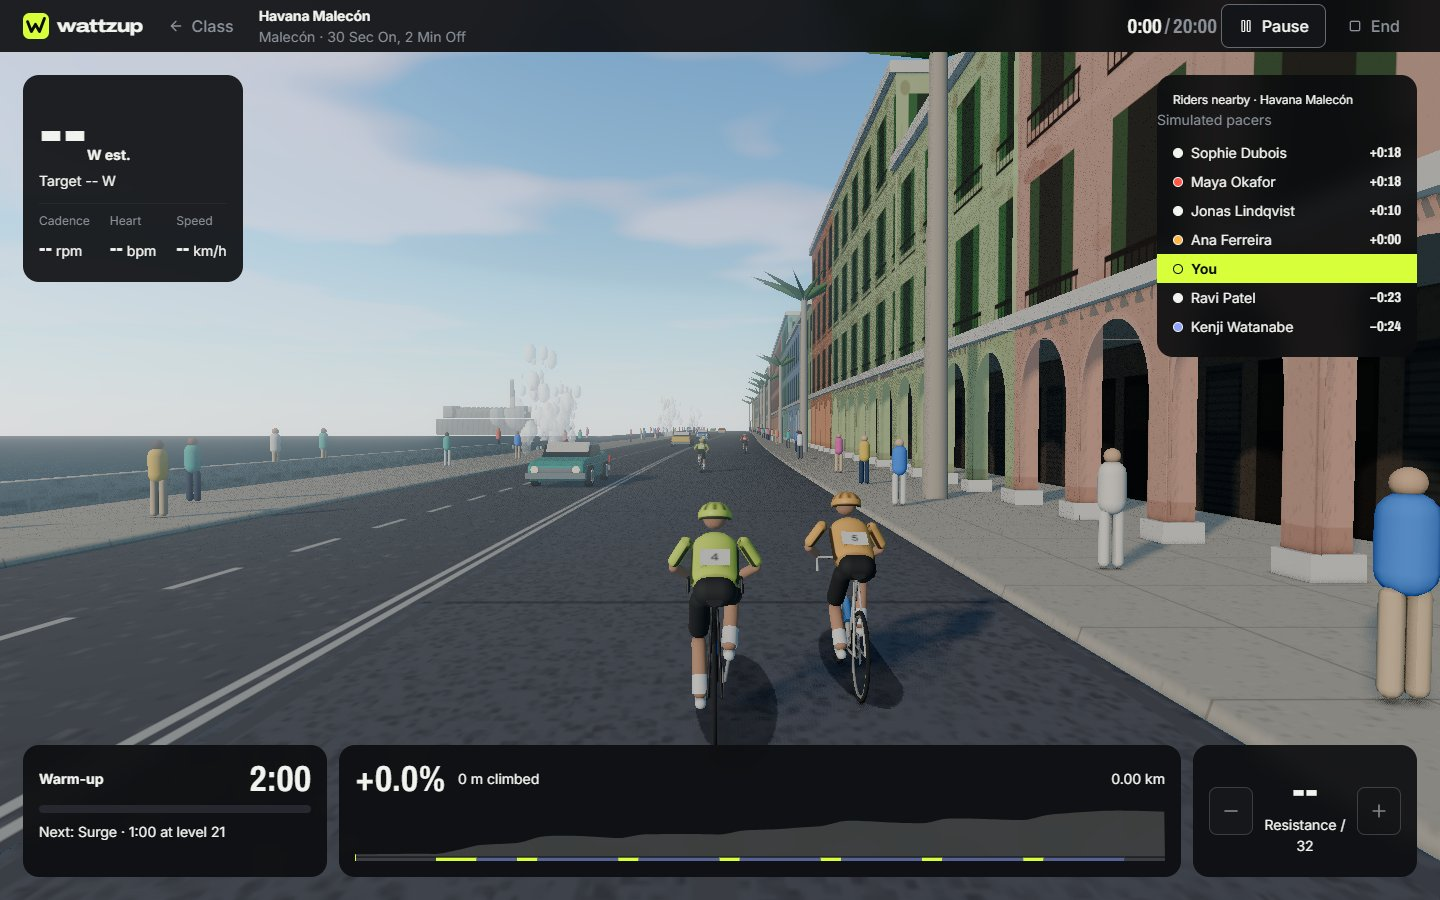
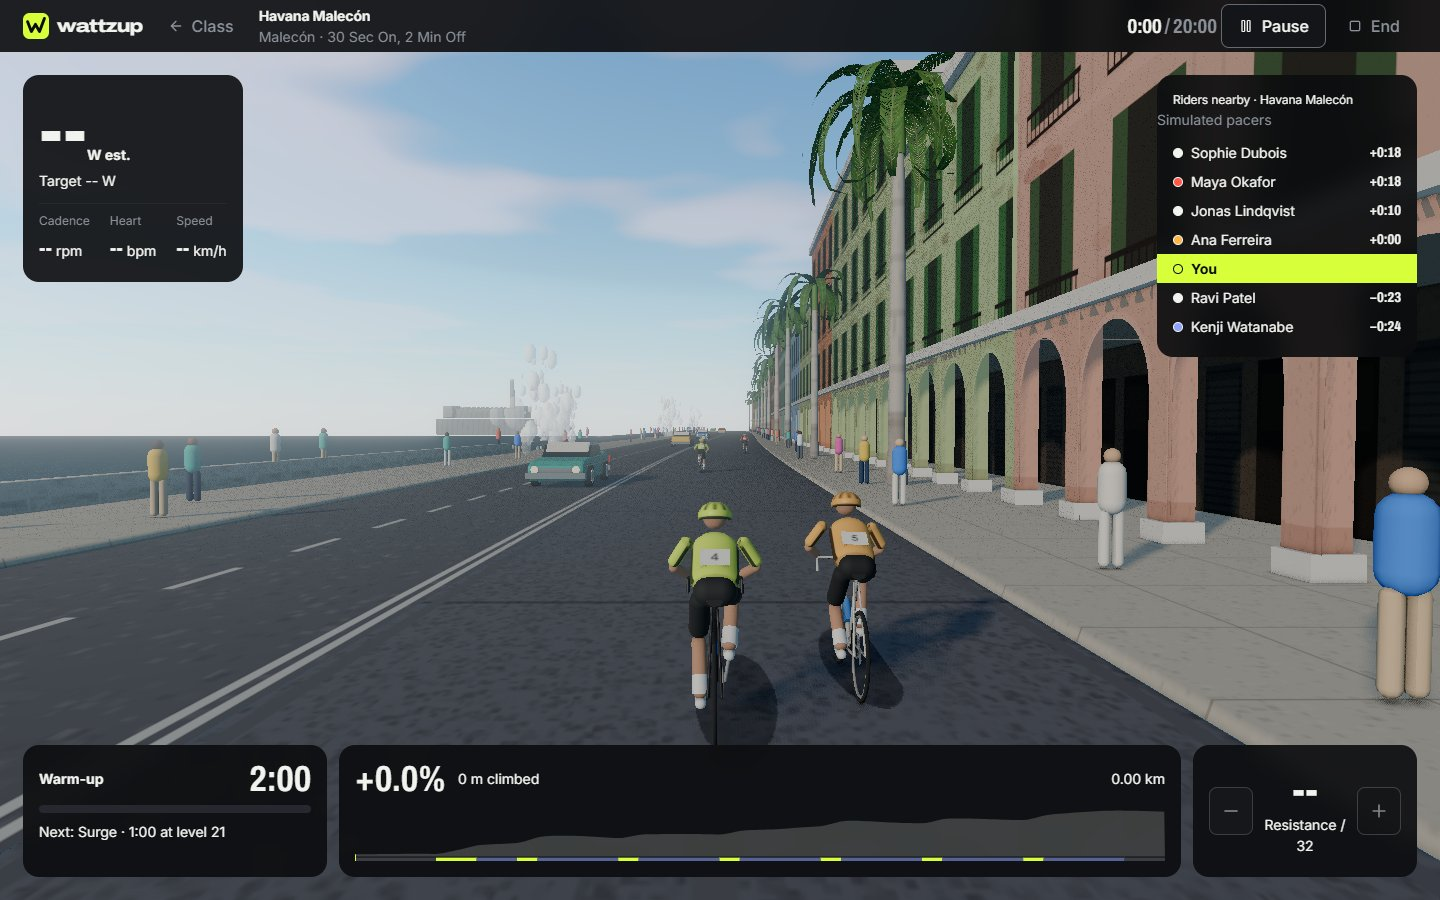
Shape Havana Malecón's classic cars from a side profile
The classic American cars become 1950s sedans instead of stacked boxes: each body is a side profile extruded and rounded at the edges, with a long bonnet, a rounded boot and tail fins; the cabin has its own sloped profile in the roof colour, with tinted windscreen, rear and side glass; and the cars carry a chrome grille, bumpers and side strip, round headlamps, red tail lamps and whitewall tyres with chrome hubcaps.

Changed region(s): [[0.5, 0.0311, 0.6875, 0.56]]

diff --git a/frontend/projects/wattzup/src/app/core/world-havana.ts b/frontend/projects/wattzup/src/app/core/world-havana.ts
@@ -11,13 +11,13 @@ import {
   BoxGeometry,
   type BufferGeometry,
   type CanvasTexture,
-  ConeGeometry,
   CylinderGeometry,
   DoubleSide,
   ExtrudeGeometry,
   Group,
   IcosahedronGeometry,
   InstancedMesh,
+  LatheGeometry,
   Matrix4,
   Mesh,
   MeshStandardMaterial,
@@ -394,31 +394,63 @@ export class HavanaStreet implements SceneStreet {
     }
   }
 
-  /** Royal palms standing along the pavement. */
+  /**
+   * Royal palms standing along the pavement: a smooth, pale grey trunk turned on a lathe, swelling
+   * low and again at mid-height like a column, a glossy green crownshaft at the top, and a crown
+   * of long pinnate fronds, the upper ones arching out and the lower ones hanging.
+   */
   private addPalms(roadHalf: number): void {
     const random = seeded(911);
-    const bark = this.material({ color: 0xbab0a0, roughness: 0.9 });
-    const fronds = this.material({ color: 0x4a7a34, roughness: 0.9 });
-    const trunk = new CylinderGeometry(0.22, 0.32, 11, 8);
-    trunk.translate(0, 5.5, 0);
+    const bark = this.material({ map: this.repeat(trunkTexture(), 1, 3), roughness: 0.85 });
+    const shaft = this.material({ color: 0x5f8f3a, roughness: 0.45 });
+    const leaves = this.material({
+      map: this.track(royalFrondTexture()),
+      alphaTest: 0.45,
+      side: DoubleSide,
+      roughness: 0.8,
+    });
+    const radius = (h: number) =>
+      0.3 -
+      0.1 * (h / 12) +
+      0.12 * Math.exp(-((h - 0.4) ** 2) / 0.6) +
+      0.05 * Math.sin((h / 12) * Math.PI);
+    const profilePoints: Vector2[] = [];
+    for (let h = 0; h <= 12; h += 0.5) profilePoints.push(new Vector2(radius(h), h));
+    const trunk = new LatheGeometry(profilePoints, 12);
+    const crownshaft = new CylinderGeometry(0.2, 0.26, 2.2, 12);
+    crownshaft.translate(0, 13.1, 0);
     const parts: BufferGeometry[] = [];
-    for (let k = 0; k < 10; k++) {
-      const frond = new ConeGeometry(0.35, 4, 4);
-      frond.scale(1, 1, 0.2);
-      frond.translate(0, 2, 0);
-      frond.rotateZ(1.2);
-      frond.rotateY((k / 10) * Math.PI * 2);
-      frond.translate(0, 11, 0);
+    for (let i = 0; i < 15; i++) {
+      const length = 4.2 + (i % 3) * 0.4;
+      const frond = new PlaneGeometry(1.3, length, 1, 10);
+      const position = frond.getAttribute('position') as BufferAttribute;
+      // Upper fronds rise and arch over; the lowest hang down beside the crownshaft.
+      const rise = 1.1 - (i / 15) * 1.6;
+      for (let v = 0; v < position.count; v++) {
+        const t = (position.getY(v) + length / 2) / length;
+        const angle = rise - t * t * 2.2;
+        const reach = length * t;
+        position.setXYZ(
+          v,
+          position.getX(v) * (1 - t * 0.6),
+          Math.sin(angle) * reach * 0.8,
+          reach * Math.cos(angle * 0.6),
+        );
+      }
+      frond.rotateY((i * 2.4) % (Math.PI * 2));
+      frond.translate(0, 14.1, 0);
       parts.push(frond);
     }
     const crown = mergeGeometries(parts)!;
     parts.forEach((p) => p.dispose());
-    this.disposables.push(trunk, crown);
-    for (let offset = 8; offset < LOOP; offset += 30 + random() * 20) {
+    crown.computeVertexNormals();
+    this.disposables.push(trunk, crownshaft, crown);
+    for (let offset = 8; offset < LOOP; offset += 22 + random() * 16) {
       const palm = new Group();
-      palm.add(new Mesh(trunk, bark), new Mesh(crown, fronds));
+      palm.add(new Mesh(trunk, bark), new Mesh(crownshaft, shaft), new Mesh(crown, leaves));
       palm.children.forEach((c) => (c.castShadow = true));
-      palm.scale.setScalar(0.85 + random() * 0.3);
+      palm.scale.setScalar(0.8 + random() * 0.3);
+      palm.rotation.y = random() * Math.PI * 2;
       this.group.add(palm);
       this.props.push({ mesh: palm, offset, x: roadHalf + 2.4 });
     }
@@ -809,4 +841,43 @@ function profile(
   geometry.translate(0, 0, -(width - 2 * bevel) / 2);
   geometry.rotateY(Math.PI / 2);
   return geometry;
+}
+
+/** A royal palm's trunk: smooth pale grey, faintly ringed, stained darker at the foot. */
+function trunkTexture(): CanvasTexture {
+  return canvasTexture(64, 256, (g) => {
+    speckle(g, 64, 256, '#c4beb4', 1013);
+    for (let y = 0; y < 256; y += 14) {
+      g.fillStyle = 'rgba(90,85,75,0.18)';
+      g.fillRect(0, y, 64, 2);
+    }
+    g.fillStyle = 'rgba(70,60,50,0.25)';
+    g.fillRect(0, 236, 64, 20);
+  });
+}
+
+/** A royal palm's frond: a pale midrib with fine drooping leaflets, transparent round it. */
+function royalFrondTexture(): CanvasTexture {
+  return canvasTexture(128, 512, (g) => {
+    g.clearRect(0, 0, 128, 512);
+    const random = seeded(1019);
+    for (let y = 6; y < 506; y += 5) {
+      const reach = 60 * Math.sin((Math.PI * (y + 40)) / 600);
+      g.strokeStyle = `hsl(${88 + random() * 22},${45 + random() * 15}%,${24 + random() * 14}%)`;
+      g.lineWidth = 2.5;
+      for (const side of [-1, 1]) {
+        g.beginPath();
+        g.moveTo(64, y);
+        g.quadraticCurveTo(
+          64 + side * reach * 0.6,
+          y + 4,
+          64 + side * reach,
+          y + 22 + random() * 8,
+        );
+        g.stroke();
+      }
+    }
+    g.fillStyle = '#9aa060';
+    g.fillRect(62, 0, 4, 512);
+  });
 }

diff --git a/docs/screenshots/havana/README.md b/docs/screenshots/havana/README.md
@@ -8,6 +8,7 @@ The live 3D world behind the ride HUD for [30 Sec On, 2 Min Off](http://localhos
 | [002 · Portales](002-portales.jpg) | The arches painted on the façades become real portales: each building's ground floor is an arcade, its pastel front cut with round arches between square piers on pale plinths, its walk set 3.6 m back under the upper floors, and shopfronts, doorways and shutters in the shade at the back. The pavement runs on under the arches, and a cornice band marks the first floor above them. Seen from the saddle, the arches open one after another down the street and the light falls through them onto the walk. | 76% · 38/100 |
 | [003 · Breakers](003-breakers.jpg) | The soft white domes become breakers: each surge throws a sheet of white water up the wall's face and a burst of ninety drops and spume flung high and landward over the promenade, each drop on its own arc, spreading as it flies and falling back. The surges stand every six to twelve metres along the wall, and the swell meets it at a slant, so each set breaks along the wall in a run toward the rider; ahead, a breaker bursts over the wall beside the oncoming car while the next set is already throwing spray further on. | 77% · 40/100 |
 | [004 · Classic cars](004-classic-cars.jpg) | The boxy cars become 1950s American sedans: each body is drawn as a side profile, extruded and rounded at the edges, with a long bonnet sloping to the grille, a rounded boot and tail fins; the cabin has its own sloped profile in the second colour with a tinted windscreen, rear window and side glass, and the cars carry chrome bumpers, grille and side strip, round headlamps, red tail lamps and whitewall tyres with chrome hubcaps. The teal sedan coming down the oncoming lanes now looks back at the rider with its two round headlamps under the windscreen. | 78% · 42/100 |
+| [004 · Classic cars](004-classic-cars.jpg) | The boxy cars become 1950s American sedans: each body is drawn as a side profile, extruded and rounded at the edges, with a long bonnet sloping to the grille, a rounded boot and tail fins; the cabin has its own sloped profile in the second colour with a tinted windscreen, rear window and side glass, and the cars carry chrome bumpers, grille and side strip, round headlamps, red tail lamps and whitewall tyres with chrome hubcaps. The teal sedan coming down the oncoming lanes now looks back at the rider with its two round headlamps under the windscreen. | 78% · 42/100 |
 
 ## Reproducing a capture
 
